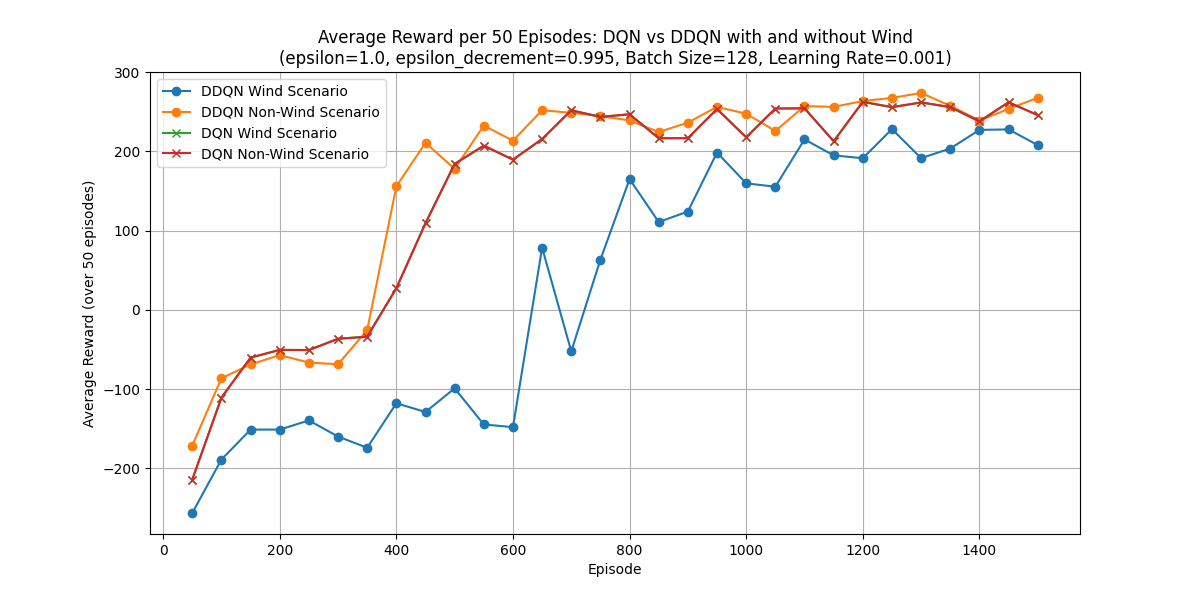
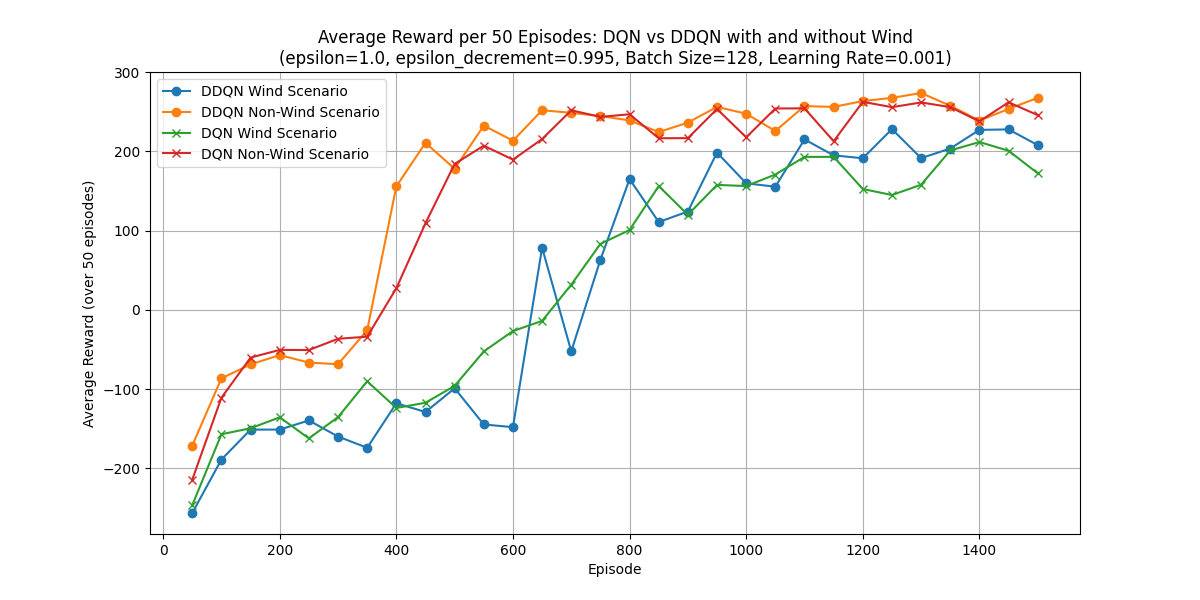
fix(wind dqn vs ddqn) added plot for wind dqn model

diff --git a/torch_plot_wind.py b/torch_plot_wind.py
@@ -27,7 +27,7 @@ ddqn_wind_filename = f'{ddqn_wind_folder}/ddqn_scores_{n_episodes}_eps_{epsilon}
 ddqn_non_wind_filename = f'{ddqn_non_wind_folder}/ddqn_scores_{n_episodes}_eps_{epsilon}_eps_d_{epsilon_dec}_bs_{batch_size}_lr_{lr}.json'
 
 # File paths for DQN models
-dqn_wind_folder = 'torch_dqn'
+dqn_wind_folder = 'torch_dqn_wind'
 dqn_non_wind_folder = 'torch_dqn'
 
 dqn_wind_filename = f'{dqn_wind_folder}/dqn_scores_{n_episodes}_eps_{epsilon}_eps_d_{epsilon_dec}_bs_{batch_size}_lr_{lr}.json'
